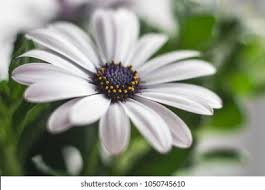
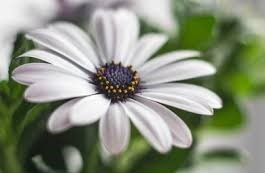
design update on slider container for collection page

diff --git a/pages/collection.html b/pages/collection.html
@@ -65,7 +65,7 @@
                                 <h3 class="slider-card__list-title">natural, fresh and clean!</h3>
                                 <button><a class="slider-card__list-link" href="#"> learn more</a></button>
                            </div>
-                            <img  class="slider__card__list-img" src="../assets/images/hero-white-flowers.jpg" alt="flower picture">
+                            <img  class="slider__card__list-img" src="../assets/images/purple3.jpg" alt="flower picture">
                         </li>
                         <li class="slider-card__list" id="img4">
                             <div class="slider-card__list-item">

diff --git a/styles/scss/pages-style/about.css b/styles/scss/pages-style/about.css
@@ -1533,7 +1533,7 @@ template {
 
 .slider__card__list-img {
   width: 100%;
-  height: 570px;
+  height: 597px;
 }
 @media screen and (min-width: 768px) {
   .slider__card__list-img {

diff --git a/styles/scss/pages-style/collection.css b/styles/scss/pages-style/collection.css
@@ -1533,7 +1533,7 @@ template {
 
 .slider__card__list-img {
   width: 100%;
-  height: 570px;
+  height: 597px;
 }
 @media screen and (min-width: 768px) {
   .slider__card__list-img {

diff --git a/styles/scss/pages-style/contact.css b/styles/scss/pages-style/contact.css
@@ -1533,7 +1533,7 @@ template {
 
 .slider__card__list-img {
   width: 100%;
-  height: 570px;
+  height: 597px;
 }
 @media screen and (min-width: 768px) {
   .slider__card__list-img {

diff --git a/styles/scss/pages-style/login.css b/styles/scss/pages-style/login.css
@@ -1533,7 +1533,7 @@ template {
 
 .slider__card__list-img {
   width: 100%;
-  height: 570px;
+  height: 597px;
 }
 @media screen and (min-width: 768px) {
   .slider__card__list-img {

diff --git a/styles/scss/styles.css b/styles/scss/styles.css
@@ -1533,7 +1533,7 @@ template {
 
 .slider__card__list-img {
   width: 100%;
-  height: 570px;
+  height: 597px;
 }
 @media screen and (min-width: 768px) {
   .slider__card__list-img {

diff --git a/styles/scss/layouts/_collection-hero.scss b/styles/scss/layouts/_collection-hero.scss
@@ -65,7 +65,7 @@
 }
 .slider__card__list-img{
   width: 100%;
-  height: 570px;
+  height: 597px;
   @include tablet-query{
     height: 561px;
   }
